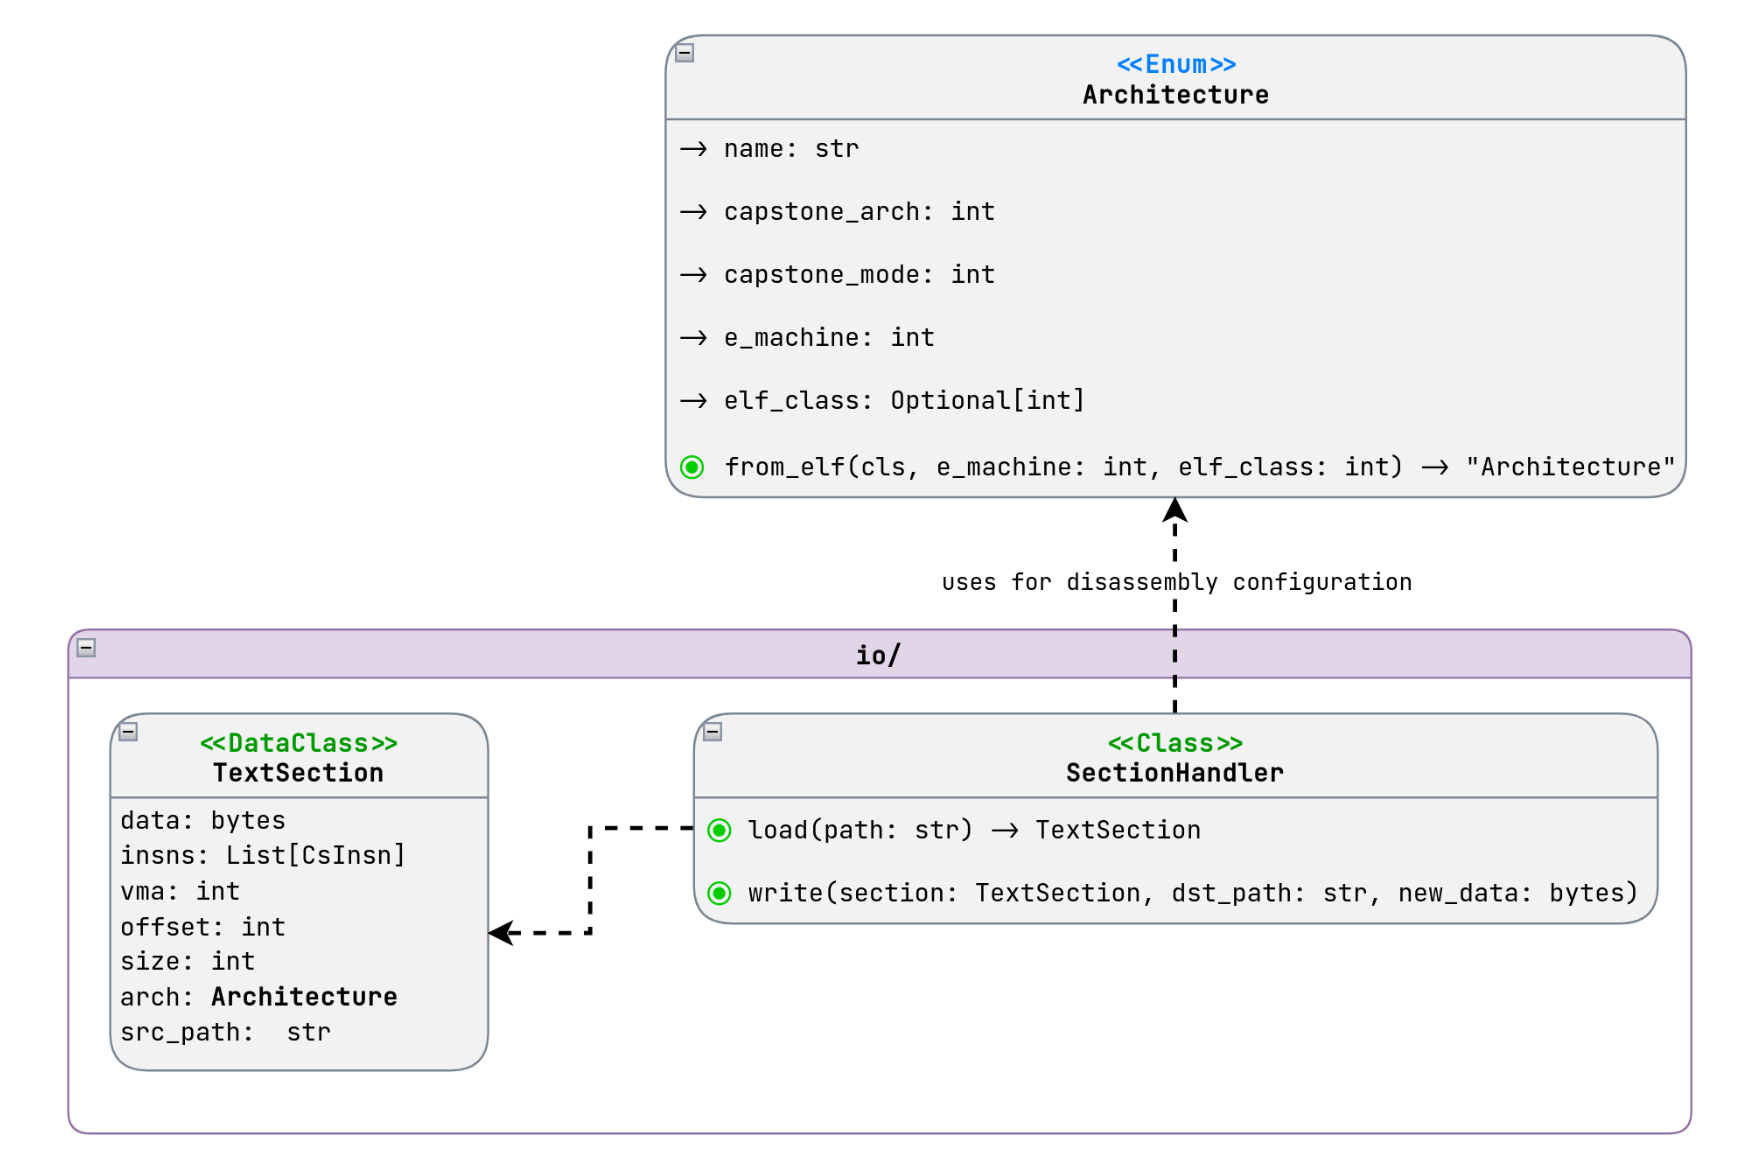
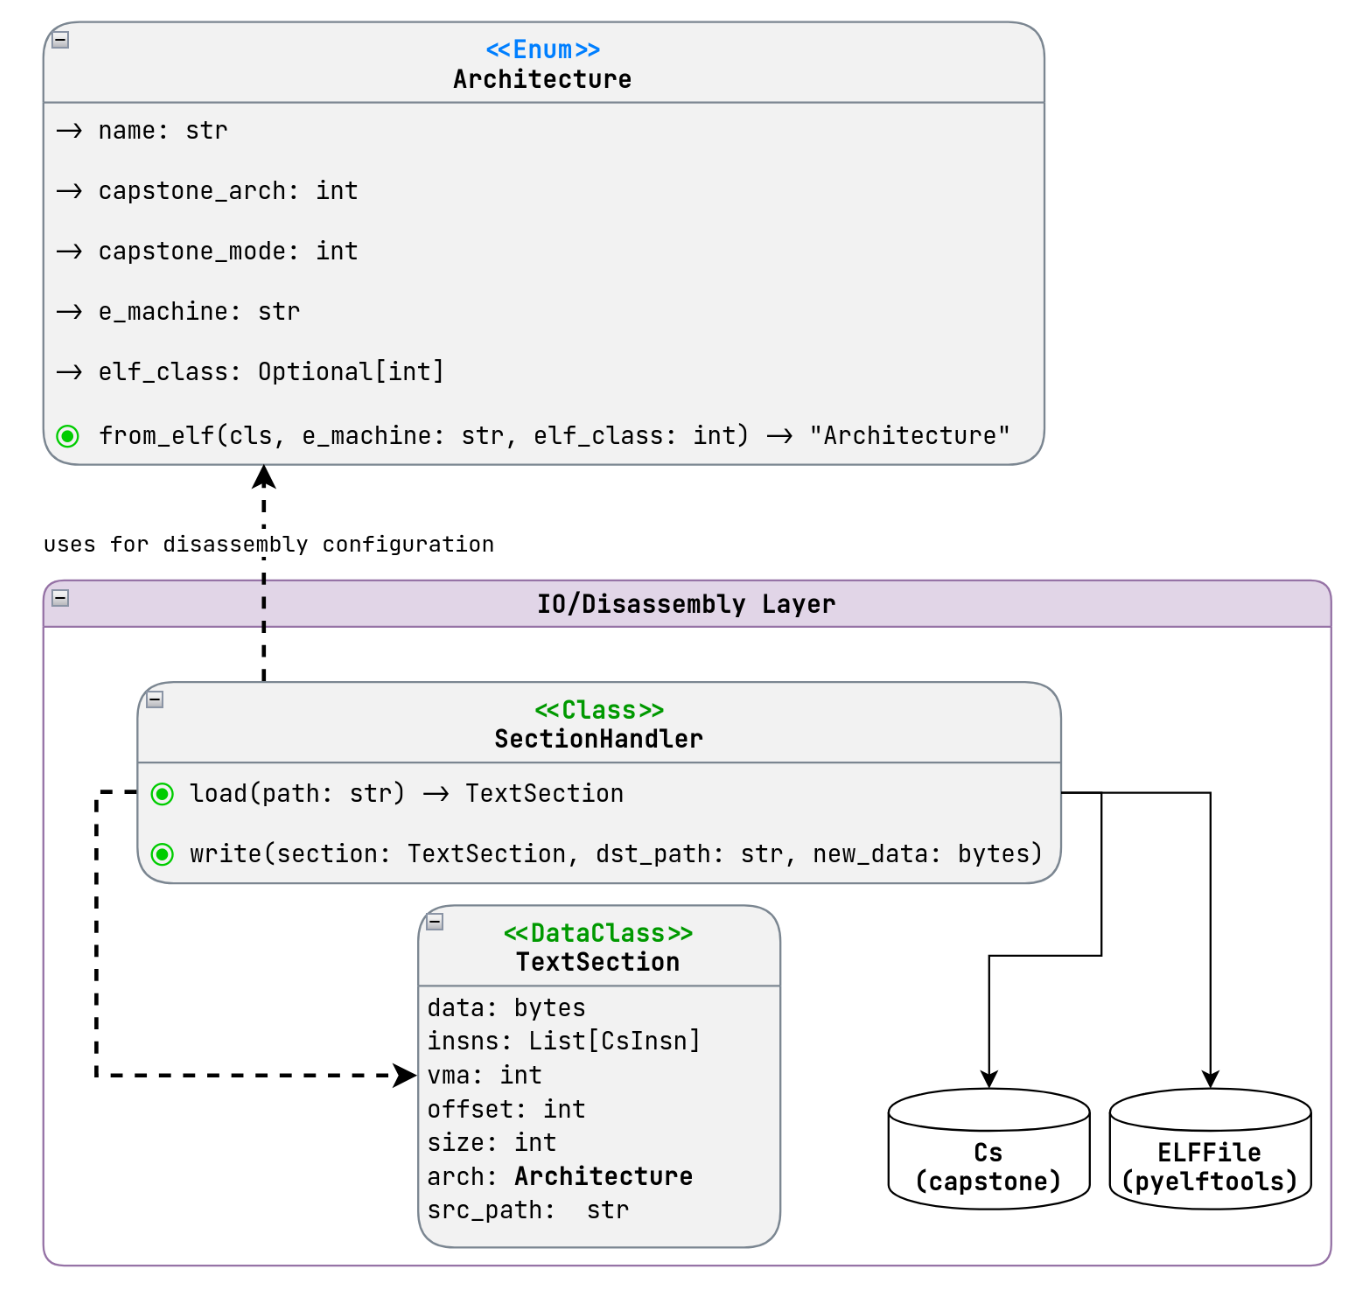
Documentation: adapting docs to current state of architecture

diff --git a/docs/architecture/Architecture.md b/docs/architecture/Architecture.md
@@ -11,7 +11,7 @@ Diagram below shows the architecture class diagram:
 
 ![New Architecture](./pics/Watermark_new.png)
 
-This UML was done using draw.io and is stored and can be accesed [here](./drawio/Watermark_new.drawio).
+This UML was done using [draw.io](https://app.diagrams.net/) and is stored and can be accesed [here](./drawio/Watermark_new.drawio) or using draw.io github integration.
 
 Old architecture and its flaws are described in the [Architecture Rework Report](./ArchRework.md).
 
@@ -77,7 +77,7 @@ Examples with pseudo-python code that provides better understanding of used patt
 ### Use of builtin watermarker with default configuration
 
 ```python
-from watermark_framework.core.service import WatermarkService
+from watermark_framework import WatermarkService
 from watermark_framework.watermarkers import EquivalentInstructionWatermarker
 
 svc = WatermarkService("example.elf")
@@ -94,7 +94,7 @@ print(f"Decoded: {decoded}")
 Example of **passing Watermarker instance to constructor**:
 
 ```python
-from watermark_framework.core.service import WatermarkService
+from watermark_framework import WatermarkService
 from watermark_framework.watermarkers import EquivalentInstructionWatermarker
 
 svc = WatermarkService("example.elf", EquivalentInstructionWatermarker())
@@ -111,7 +111,7 @@ print(f"Decoded: {decoded}")
 **Changing the strategy** after initialization is also possible:
 
 ```python
-from watermark_framework.core.service import WatermarkService
+from watermark_framework import WatermarkService
 from watermark_framework.watermarkers import EquivalentInstructionWatermarker, StackWatermarker
 
 svc = WatermarkService("example.elf", EquivalentInstructionWatermarker())
@@ -132,7 +132,7 @@ Because we are passing to `encode()`/`decode()` instances of `Watermarker` class
 Such as configuring equivalent instructions for `EquivalentInstructionWatermarker`:
 
 ```python
-from watermark_framework.core.service import WatermarkService
+from watermark_framework import WatermarkService
 from watermark_framework.watermarkers import EquivalentInstructionWatermarker
 
 svc = WatermarkService("example.elf")
@@ -187,7 +187,7 @@ Overview of the `TextSection` fields:
 | `vma`      | `int`           | The Virtual Memory Address (VMA) where the `.text` section is loaded in memory during execution.|
 | `offset`   | `int`           | The file offset where the `.text` section begins in the ELF binary. Used when patching the file with modified data.|
 | `size`     | `int`           | The size of the `.text` section in bytes. |
-| `arch`     | `Architecture`  | The architecture of the binary (e.g., RISC-V 64-bit, RISC-V 32-bit), represented as an enum.|
+| `arch`     | `Architecture`  | The architecture of the binary (e.g., RISC-V, X86), represented as an enum.|
 | `src_path` | `str`           | The file path of the original ELF binary, stored for reference during file writing operations.|
 
 ## Support for Multiple Architectures
@@ -206,13 +206,13 @@ Each member of `Architecture` Enum defines metadata for an architecture, includi
 
 | Attribute        | Type           | Description |
 |------------------|----------------|-------------|
-| `name`           | `str`          | Human-readable architecture name (e.g., "riscv64").|
+| `name`           | `str`          | Human-readable architecture name (e.g., "riscv").|
 | `capstone_arch`  | `int`          | Capstone architecture constant (e.g., `CS_ARCH_RISCV`).|
 | `capstone_mode`  | `int`          | Capstone mode constant (e.g., `CS_MODE_RISCV64`).|
-| `e_machine`      | `int`          | ELF machine type (e.g., `EM_RISCV`).|
+| `e_machine`      | `str`          | ELF machine type (e.g., `"EM_RISCV"`).|
 | `elf_class`      | `Optional[int]`| ELF class (32 or 64) or `None` if not applicable.|
 
-> `Architecture` also have classmethod: `from_elf(e_machine: int, elf_class: int) -> Architecture`  
+> `Architecture` also have classmethod: `from_elf(e_machine: str, elf_class: int) -> Architecture`  
 >
 > It maps ELF header values (`e_machine` and `elf_class`) to an `Architecture` member. (used by `TextSectionHandler`)
 
@@ -232,12 +232,12 @@ The Watermark framework is designed to be easily extensible, allowing users and 
 
 We’ve defined a clear policy for extending the framework with new `Watermarker` implementations, aiming for two primary audiences:
 
-- End users installing the library via pip
+- End users who use library through package manager (in future pip).
 - Developers contributing to the framework’s repository.
 
-### Extension for End Users (pip installation)
+### Extension for End Users
 
-For users who install the Watermark framework via pip, the primary way to extend the framework is by creating a custom `Watermarker` implementation and passing an instance of it to `WatermarkService`.
+For users who install the Watermark framework as package, the primary way to extend the framework is by creating a custom `Watermarker` implementation and passing an instance of it to `WatermarkService`.
 
 Guidelines for creating a custom Watermarker are provided in the [How to write a Watermarker](./../HowToWatermarker.md) document.
 
@@ -259,11 +259,13 @@ For developers contributing to the Watermark framework (e.g., those working with
    - Detailed guidelines: [How to write a Watermarker](./../HowToWatermarker.md).
 
 2. **Export the New Watermarker**:
-   - Export the new strategy in `watermark_framework/watermarkers/__init__.py` to make it accessible to users:
+   - Export the new strategy in `watermark_framework/watermarkers/__init__.py` to make it importable from in user code:
 
    ```python
    from .new_strategy import NewWatermarker
    ```
+
+   - Without manual export, still will be accesible via `get_watermarkers` in `watermark_framework/watermarkers/__init__.py`. Which dynamically collects all classes that implement the `Watermarker` interface. (this is used in implementation of CLI Layer).
 
 3. **Update Documentation**:
    - Document the new strategy in the framework’s documentation, including its purpose, configuration options, and example usage.

diff --git a/docs/architecture/ArchRework.md b/docs/architecture/ArchRework.md
@@ -12,7 +12,7 @@ This is the report about deep rework done on project architecture to make it mor
 You can overview the previous architecture class diagram in the following image:
 ![Previous Architecture](./pics/Watermark_old.png)
 
-This UML was done using draw.io and is stored and can be accesed [here](./drawio/Watermark_old.drawio).
+This UML was done using [draw.io](https://app.diagrams.net/) and is stored and can be accesed [here](./drawio/Watermark_old.drawio).
 
 ## Main Problems of Previous Architecture
 
